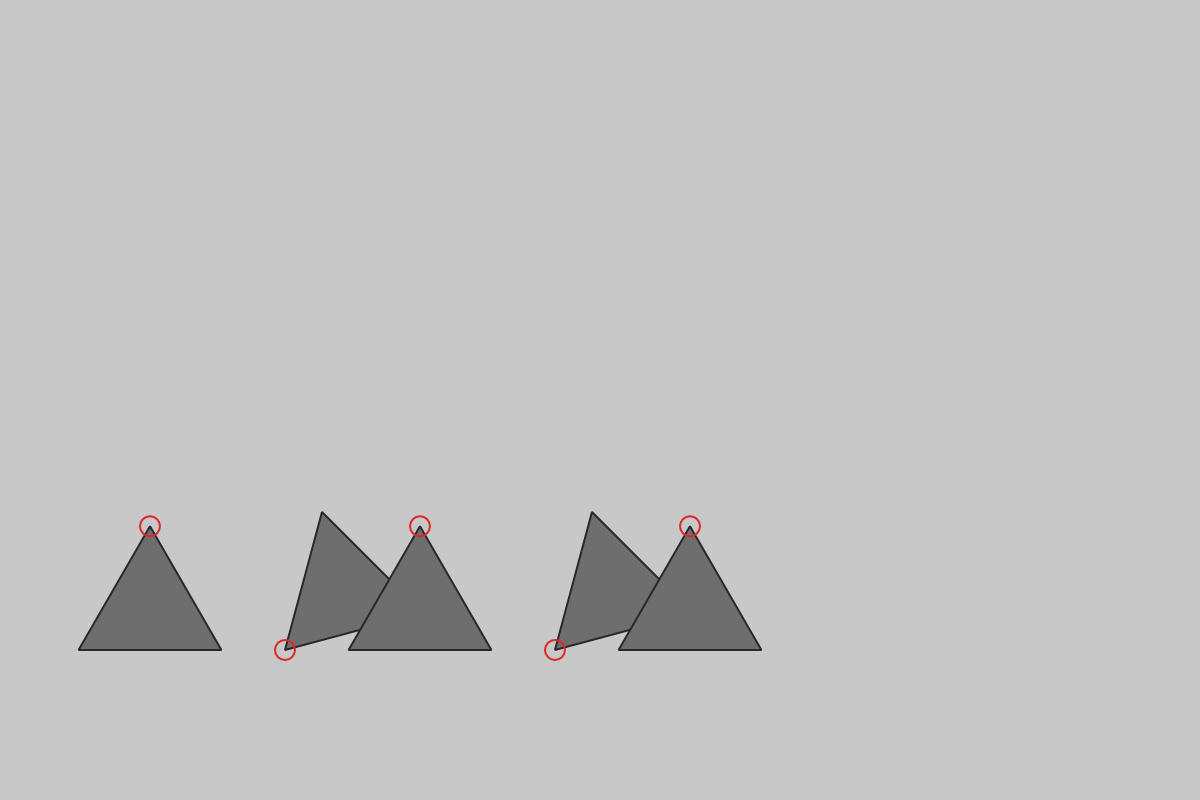
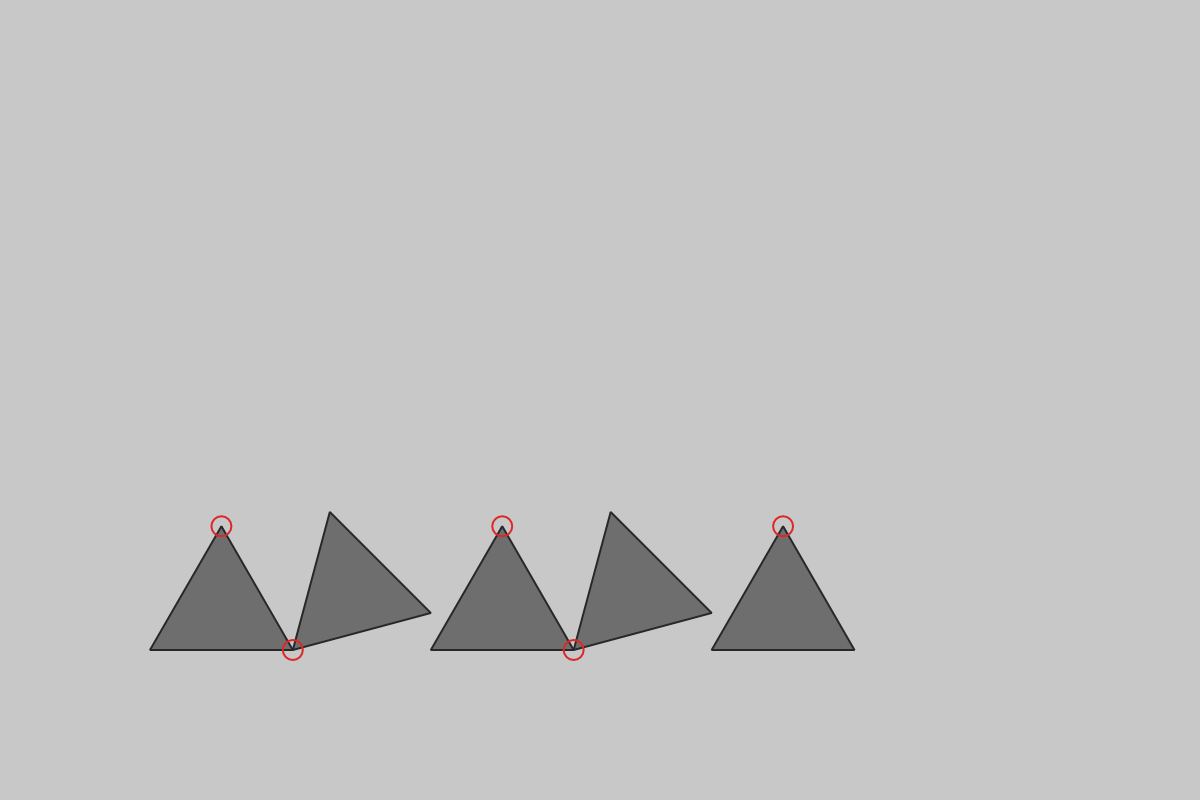
collision and horizontalAppend

Changed region(s): [[0.0617, 0.625, 0.7092, 0.8438]]

diff --git a/dreiecksbeziehungen/lib/intersection.go b/dreiecksbeziehungen/lib/intersection.go
@@ -11,13 +11,15 @@ func LineSegementIntersection(u *Line, v *Line) bool {
 }
 
 func isSegmentLineCollision(line *Line, segment *Line) bool {
-	transLine := Line{Vertex{}, Vertex{line.B.X - line.A.X, line.B.Y - line.A.Y}, nil}
-	transSegment := Line{Vertex{segment.A.X - line.A.X, segment.A.Y - line.A.Y},
-		Vertex{segment.B.X - line.A.X, segment.B.Y - line.A.Y}, nil}
-	dA := dotProd(transLine.B, transSegment.A)
-	dB := dotProd(transLine.B, transSegment.B)
+	transLine := Line{Vector{}, Vector{line.B.X - line.A.X, line.B.Y - line.A.Y}}
+	transSegment := Line{Vector{segment.A.X - line.A.X, segment.A.Y - line.A.Y},
+		Vector{segment.B.X - line.A.X, segment.B.Y - line.A.Y}}
+	//dA := crossProdComp3(transLine.B, transSegment.A)
+	//dB := crossProdComp3(transLine.B, transSegment.B)
 
-	return (dA >= 0 && dB <= 0) || (dA <= 0 && dB >= 0)
+	//return (dA >= 0 && dB <= 0) || (dA <= 0 && dB >= 0)
+
+	return leftFromLine(transLine.B, transSegment.A) != leftFromLine(transLine.B, transSegment.B)
 }
 
 func isBoxCollision(u *Line, v *Line) bool {
@@ -29,6 +31,10 @@ func isBoxCollision(u *Line, v *Line) bool {
 	return false
 }
 
-func dotProd(u Vertex, v Vertex) float64 {
-	return u.X*v.Y - v.X*u.Y
+func leftFromLine(v Vector, p Vector) bool {
+	return v.X*p.Y-p.X*v.Y > 0
+}
+
+func rightFromLine(v Vector, p Vector) bool {
+	return v.X*p.Y-p.X*v.Y < 0
 }

diff --git a/dreiecksbeziehungen/updown/updown.go b/dreiecksbeziehungen/updown/updown.go
@@ -2,6 +2,7 @@ package updown
 
 import (
 	"BwInf37_runde2/dreiecksbeziehungen/lib"
+	"math"
 )
 
 func UpDown(triangles []*lib.Triangle) {
@@ -20,19 +21,42 @@ func UpDown(triangles []*lib.Triangle) {
 			t.Rotate(lib.Corner((angleIndex)%3), -a)
 
 			groundTriangle(t)
+			horizontalAppendToTriangles(t, triangles[:ti])
 		} else {
-
+			groundTriangle(t)
+			horizontalAppendToTriangles(t, triangles[:ti])
 		}
 	}
 
 }
 
 func horizontalAppendToTriangles(t *lib.Triangle, others []*lib.Triangle) {
+	mostRight := 0.0
+	mostLeft := math.MaxFloat64
+	for _, o := range others {
+		for _, c := range o.Corners() {
+			if c.X > mostRight {
+				mostRight = c.X
+			}
+		}
+	}
+	for _, c := range t.Corners() {
+		if c.X < mostLeft {
+			mostLeft = c.X
+		}
+	}
 
+	t.Move(mostRight-mostLeft, 0)
 }
 
-func collidesWithOthers(t *lib.Triangle, others []*lib.Triangle) {
+func collidesWithOthers(t *lib.Triangle, others []*lib.Triangle) bool {
+	for _, o := range others {
+		if t.Collides(o) {
+			return true
+		}
+	}
 
+	return false
 }
 
 func groundTriangle(t *lib.Triangle) {

diff --git a/dreiecksbeziehungen/lib/Triangle.go b/dreiecksbeziehungen/lib/Triangle.go
@@ -27,10 +27,7 @@ func (t *Triangle) Rotate(rc Corner, angle float64) {
 	for _, c := range corners {
 		c.Add(translator)
 		c.Rotate(angle)
-		//fmt.Println(c.X)
 		c.Add(&backTransl)
-		//fmt.Println(backTransl.X, "+")
-		//fmt.Println("->", c.X)
 	}
 }
 
@@ -64,4 +61,29 @@ func (t *Triangle) Move(dx float64, dy float64) {
 	for _, c := range t.Corners() {
 		c.Add(&dv)
 	}
+}
+
+func (t *Triangle) Collides(o *Triangle) bool {
+	lines := triangleToLines(t)
+	oLines := triangleToLines(o)
+
+	for _, l := range lines {
+		for _, ol := range oLines {
+			if LineSegementIntersection(l, ol) {
+				return true
+			}
+		}
+	}
+
+	return false
+}
+
+func triangleToLines(t *Triangle) []*Line {
+	var lines []*Line
+	cs := t.Corners()
+	for ci, c := range cs {
+		lines = append(lines, &Line{A: *c, B: *cs[(ci+1)%3]})
+	}
+
+	return lines
 }

diff --git a/dreiecksbeziehungen/lib/Line.go b/dreiecksbeziehungen/lib/Line.go
@@ -1,31 +1,6 @@
 package lib
 
 type Line struct {
-	A Vertex
-	B Vertex
-
-	Info map[string]string
+	A Vector
+	B Vector
 }
-
-/*func (l *Line) SortForX() {
-	if l.B.X < l.A.X {
-		l.A, l.B = l.B, l.A
-	}
-}
-
-func (l *Line) CalcGradient() (float64, bool) {
-	if l.B.X > l.A.X {
-		return (l.B.Y - l.A.Y) / (l.B.X - l.A.X), false
-	} else if l.A.X > l.B.X {
-		return (l.A.Y - l.B.Y) / (l.A.X - l.B.X), false
-	}
-	return math.MaxFloat64, true
-}
-
-func (l *Line) CalcYIntercept() (float64, bool) {
-	m, isVert := l.CalcGradient()
-	if isVert {
-		return 0, true
-	}
-	return l.A.Y - (l.A.X * m), false
-}*/
